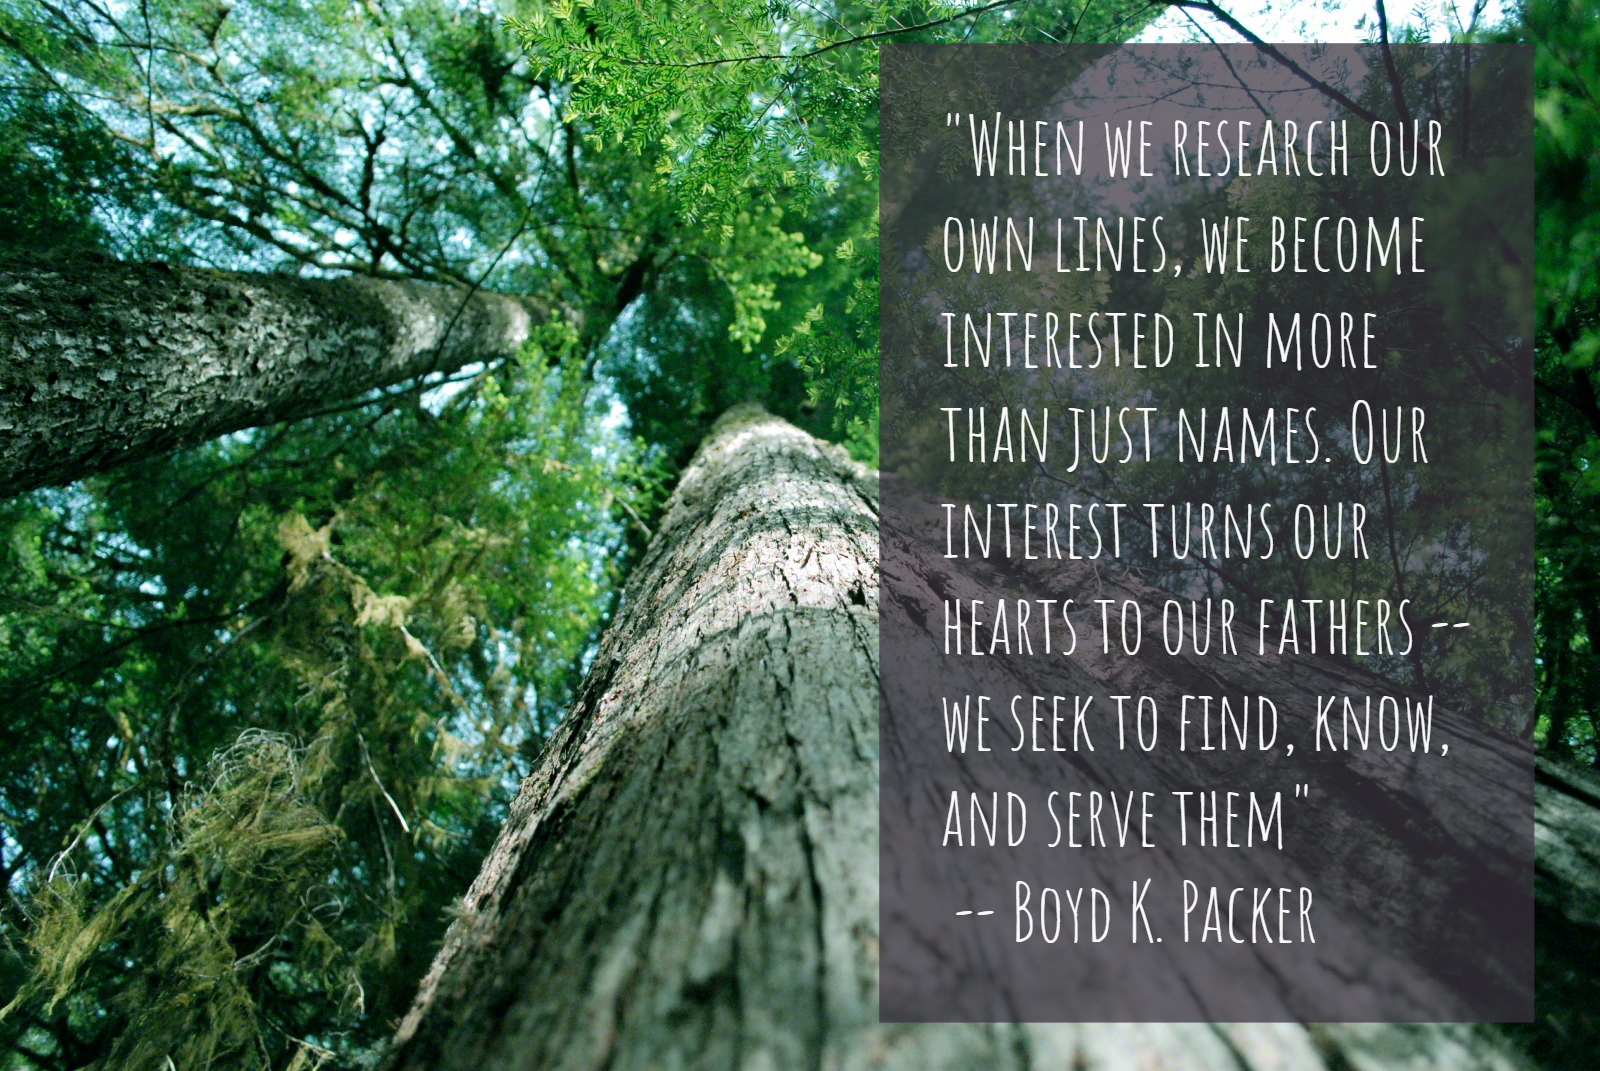
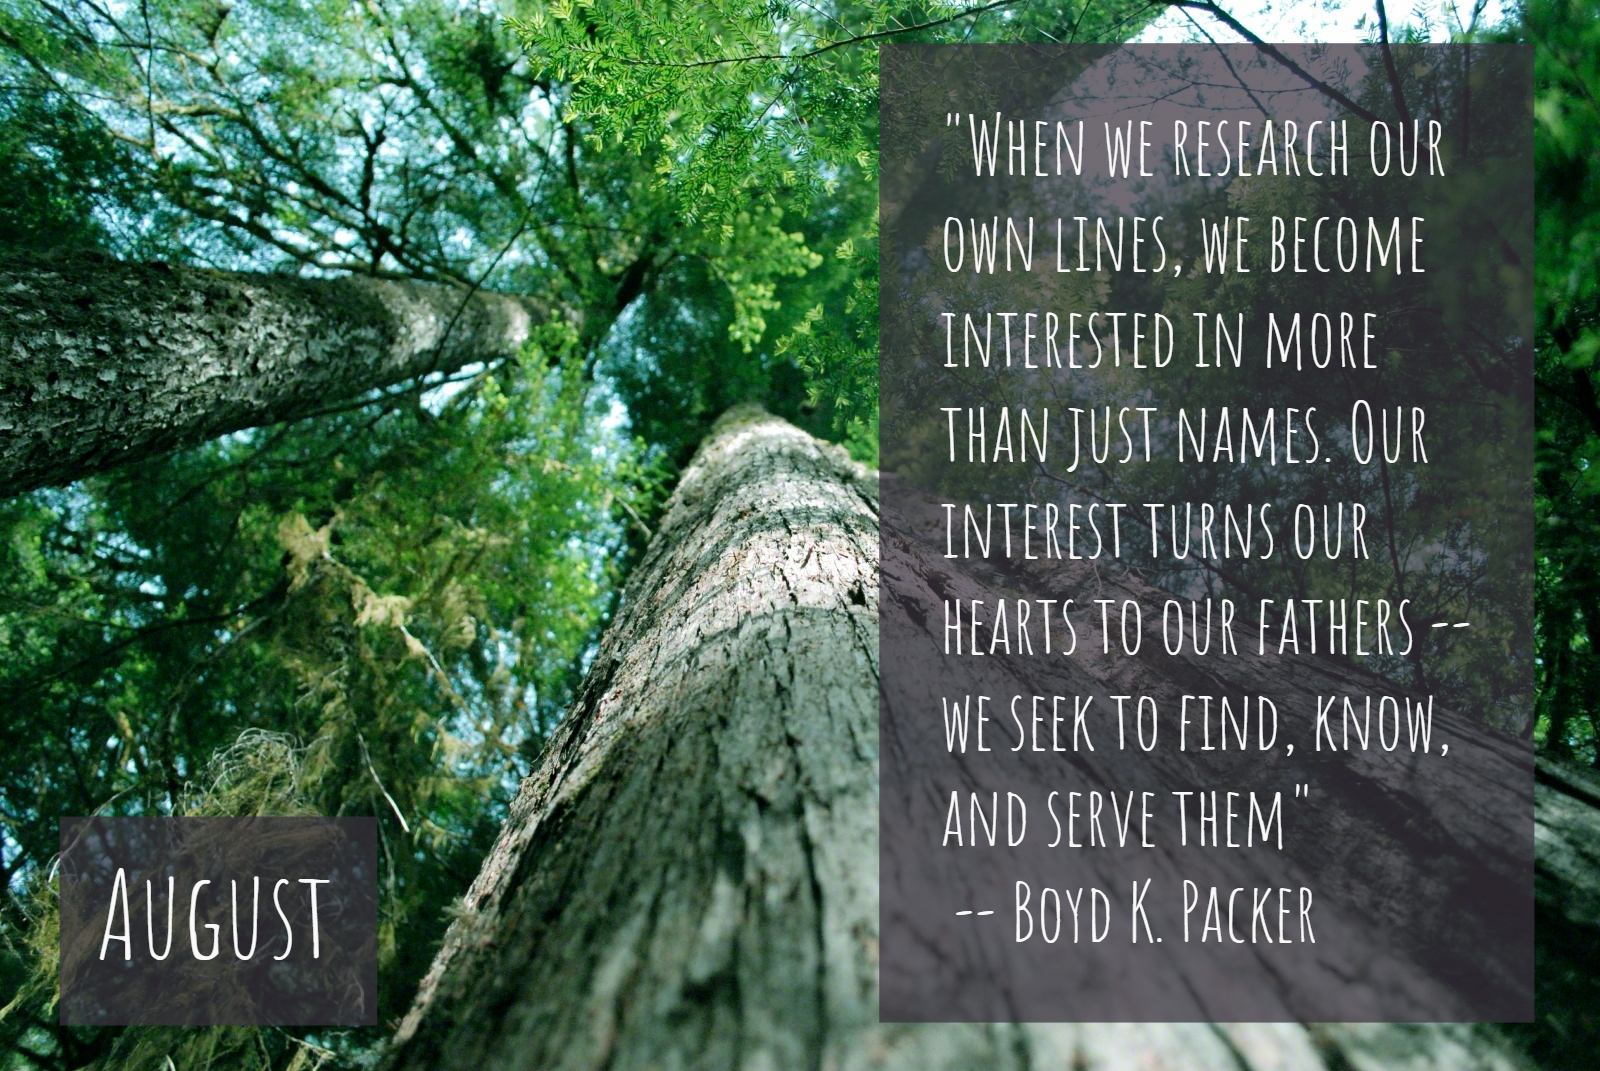
Added church history dates and national holidays, put month name on the top page, and started making message overlay to indicate the calendar is downloading.

Changed region(s): [[0.0312, 0.7395, 0.25, 0.9552]]

diff --git a/routes/calendar.js b/routes/calendar.js
@@ -44,6 +44,36 @@ function setUpCalendar() {
     calendar[month].numDaysInMonth = numDaysInMonth;
     calendar[month].firstDayOfMonth = firstDayOfMonth;
   }
+  var displayHolidays = true;
+  if(displayHolidays) {
+    // The year could be anything, but it looks for a three part year, so something has to be there
+    addEventToCalendar("New Year's Day", "1 January 0000", null, null, "holiday");
+    addEventToCalendar("Independence Day", "4 July 0000", null, null, "holiday");
+    addEventToCalendar("Veterans Day", "11 November 0000", null, null, "holiday");
+    // TODO: Calculate Thanksgiving Day, Memorial Day, Father's Day, and Mother's Day
+    // addEventToCalendar("Thanksgiving Day", thanksgivingDay + " November 0000", null, null, "holiday");
+    addEventToCalendar("Christmas Eve", "24 December 0000", null, null, "holiday");
+    addEventToCalendar("Christmas Day", "25 December 0000", null, null, "holiday");
+  }
+}
+
+function addChurchHistoryEvents() {
+  var displayChurchHistoryDates = true;
+  if(displayChurchHistoryDates) {
+    addEventToCalendar("Joseph Smith was born",                     "23 December 1805",  null, null, "church-history");
+    addEventToCalendar("Joseph Smith is visited by Moroni",         "21 September 1823", null, null, "church-history");
+    addEventToCalendar("Joseph Smith married Emma Hale",            "18 January 1827",   null, null, "church-history");
+    addEventToCalendar("Joseph Smith received the Golden Plates",   "22 September 1827", null, null, "church-history");
+    addEventToCalendar("Aaronic Priesthood Restored",               "15 May 1829",       null, null, "church-history");
+    addEventToCalendar("First publication of the Book of Mormon",   "26 March 1830",     null, null, "church-history");
+    addEventToCalendar("The Church was organized",                  "6 April 1830",      null, null, "church-history");
+    addEventToCalendar("The Kirtland Temple was dedicated",         "27 March 1836",     null, null, "church-history");
+    addEventToCalendar("Sealing Keys restored in Kirtland Temple",  "3 April 1836",      null, null, "church-history");
+    addEventToCalendar("Doctrine of baptism for the dead revealed", "15 August 1840",    null, null, "church-history");
+    addEventToCalendar("Relief Society Organized",                  "17 March 1842",     null, null, "church-history");
+    addEventToCalendar("Martyrdom of Joseph and Hyrum Smith",       "27 June 1844",      null, null, "church-history");
+    addEventToCalendar("Brigham Young arrives in Salt Lake Valley", "24 July 1847",      null, null, "church-history");
+  }
 }
 
 /**
@@ -136,6 +166,7 @@ router.get('/:personId', function(req, res, next) {
         console.log("Calendar: ", JSON.stringify(calendar, null, 4));
         // Notify async.autoInject that we're done with this task and give it
         // the ancestry data so that the data is available for later tasks.
+        addChurchHistoryEvents();
         callback(null, calendar);
       });
     }

diff --git a/public/js/pdf-generator.js b/public/js/pdf-generator.js
@@ -24,6 +24,7 @@ function grabPage(pageIndex) {
 * promises. The final PDF is saved in the user's downloads.
 **/
 function generate() {
+  document.getElementById('overlay-message').innerHTML = "Downloading . . .";
   // creates a promise for each calendar page, so they can load asyncronously and the pages stay in the same order.
   var calendarPagePromiseArray = [grabPage(0), grabPage(1), grabPage(2), grabPage(3), grabPage(4), grabPage(5), grabPage(6), grabPage(7), grabPage(8), grabPage(9), grabPage(10), grabPage(11), grabPage(12), grabPage(13), grabPage(14), grabPage(15), grabPage(16), grabPage(17), grabPage(18), grabPage(19), grabPage(20), grabPage(21), grabPage(22), grabPage(23)];
   Promise.all(calendarPagePromiseArray).then(
@@ -38,6 +39,7 @@ function generate() {
         }
       }
       pdf.save("myFamilyCalendar.pdf");
+      document.getElementById('overlay-message').innerHTML = "Done!";
     },
     // if not successful
     function(errorArray) {

diff --git a/public/stylesheets/calendar.css b/public/stylesheets/calendar.css
@@ -1,3 +1,7 @@
+#main {
+  visibility: none;
+}
+
 .top-photo {
   width: 100%;
   height: 100%;
@@ -8,14 +12,13 @@
 }
 
 .month {
-  padding: 3px;
+  padding-top: 10px;
+  padding-bottom: 3px;
+  padding-left: 3px;
+  padding-right: 10px;
   border-style: solid;
   border-width: 1px;
   margin-bottom: 100px;
-}
-
-.month-title {
-  text-align: center;
 }
 
 .week {
@@ -30,15 +33,21 @@
   opacity: 0.9;
   padding: 3px;
   width: 100%;
-  height: 110px;
+  height: 140px;
 }
 
 .event {
   padding: 3px;
   margin: 3px;
-  font-size: 10px;
+  font-size: 12px;
 }
 
+#overlay-message {
+  background-color: white;
+  opacity: .8;
+  position: absolute;
+  margin: 0;
+}
 @media print{
   body {
     background-color: blue;
